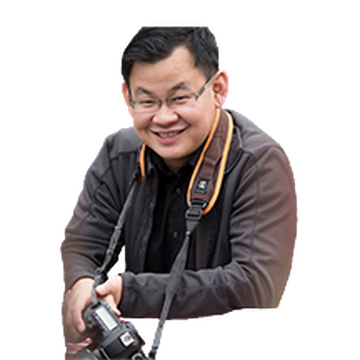
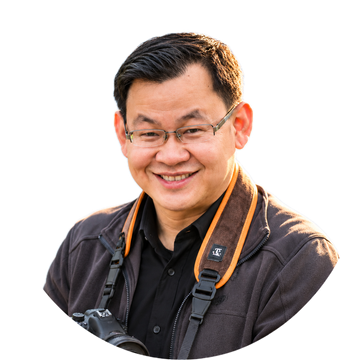
Concept 06: new headshots for Stefan, Kien and David
Circular portraits supplied by the project owner on October 31; cropped to the circle, subject lifted with macOS Vision as Pat's was, 360 px png and webp. Sources and the lift tool are in the source folder's team/.

diff --git a/src/content/team.ts b/src/content/team.ts
@@ -3,7 +3,9 @@
  * October 29, 2026, from the brand owner: Jesse, Sunny Kim and Alec Gossage removed; Pat Angeles added in Alec's place
  * (headshot from her email; the title "Studio Administrator" is from her own email signature and was confirmed by the decision maker on October 30, 2026).
  * Names and roles are the page's own wording; where the page shows only a first name, only the first name is used.
- * Photos are the page's headshots with the background lifted (public/assets/team). Reuse on the FSM site is a
+ * Photos are the page's headshots with the background lifted (public/assets/team). October 31, 2026: Stefan, Kien and
+ * David have new headshots supplied by the project owner (circular portraits; subject lifted the same way, sources and
+ * provenance in the source folder's team/*.SOURCE.txt). Reuse on the FSM site is a
  * client approval (REQUIRES_CLIENT_CONFIRMATION), like the campaign imagery. Order follows the About page.
  */
 import { url } from './config';
